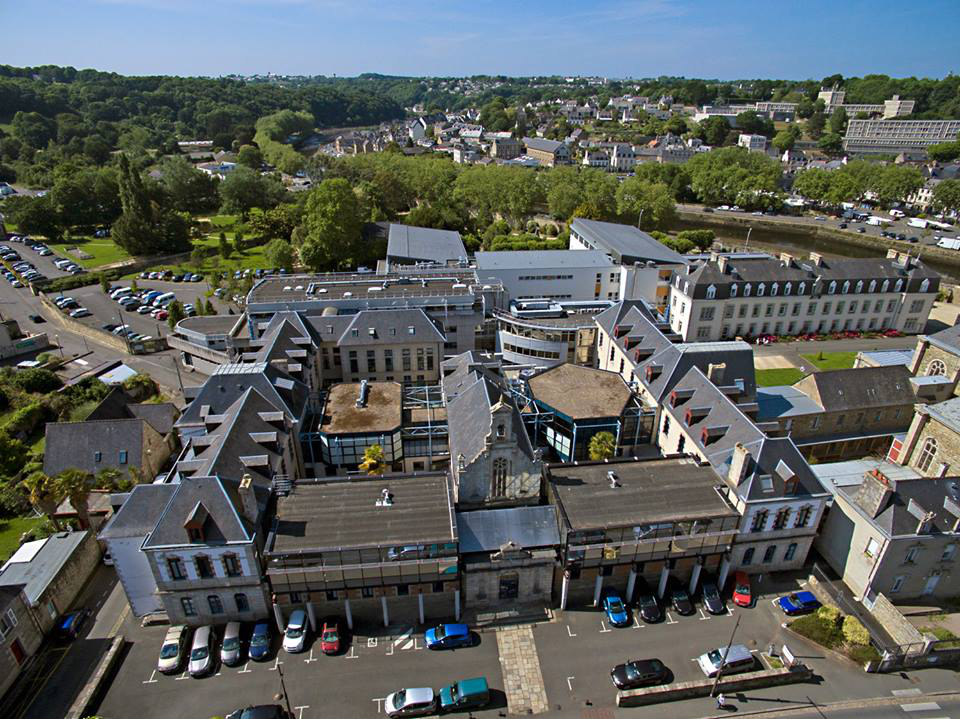
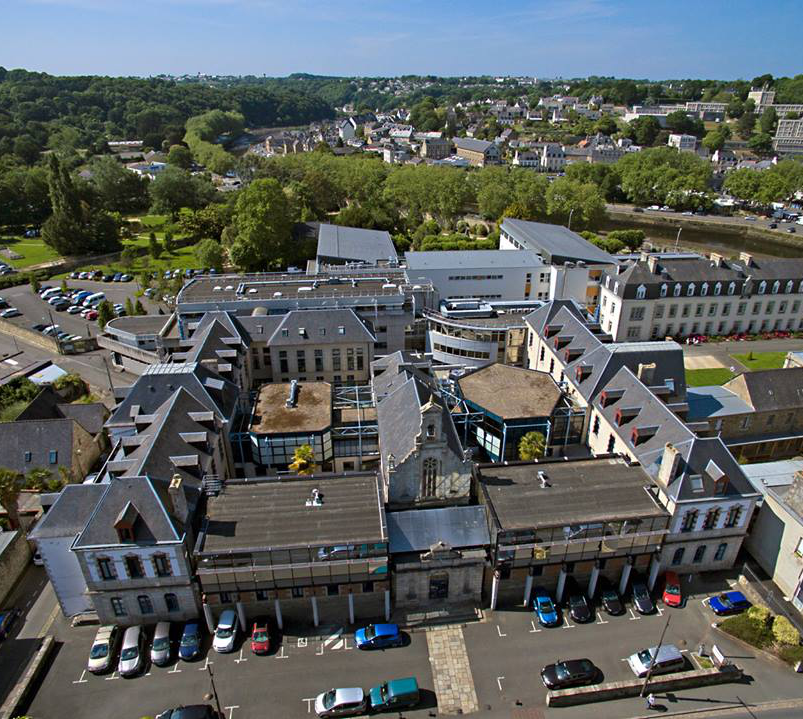
images prologue

diff --git a/src/main/java/Partie/Scenario_structure.java b/src/main/java/Partie/Scenario_structure.java
@@ -12,7 +12,7 @@ public class Scenario_structure {
         //Salles
         Room room1 = new Room(101,102,-1,-1,-1,true,1011,"pictures/Hall.png", "Prologue - Hall d'entrée"); //Hall enssat
         Room room2 = new Room(102,-1,-1,-1,-1, false,1021,"pictures/Amphi.png", "Prologue - Amphithéâtre"); //Amphi
-        Room room3 = new Room(103,-1,-1,-1,-1, true,1031,"pictures/Amphi.png"); //Amphi post-conférence
+        Room room3 = new Room(103,-1,-1,-1,-1, true,1031,"pictures/Amphi2.png"); //Amphi post-conférence
         Room room3_1 = new Room(201,103,2011,"pictures/Trousse.png"); //trousse
         Room room4 = new Room(104,-1,-1,-1,-1,true,1041,"pictures/Exterieur.png");
 
